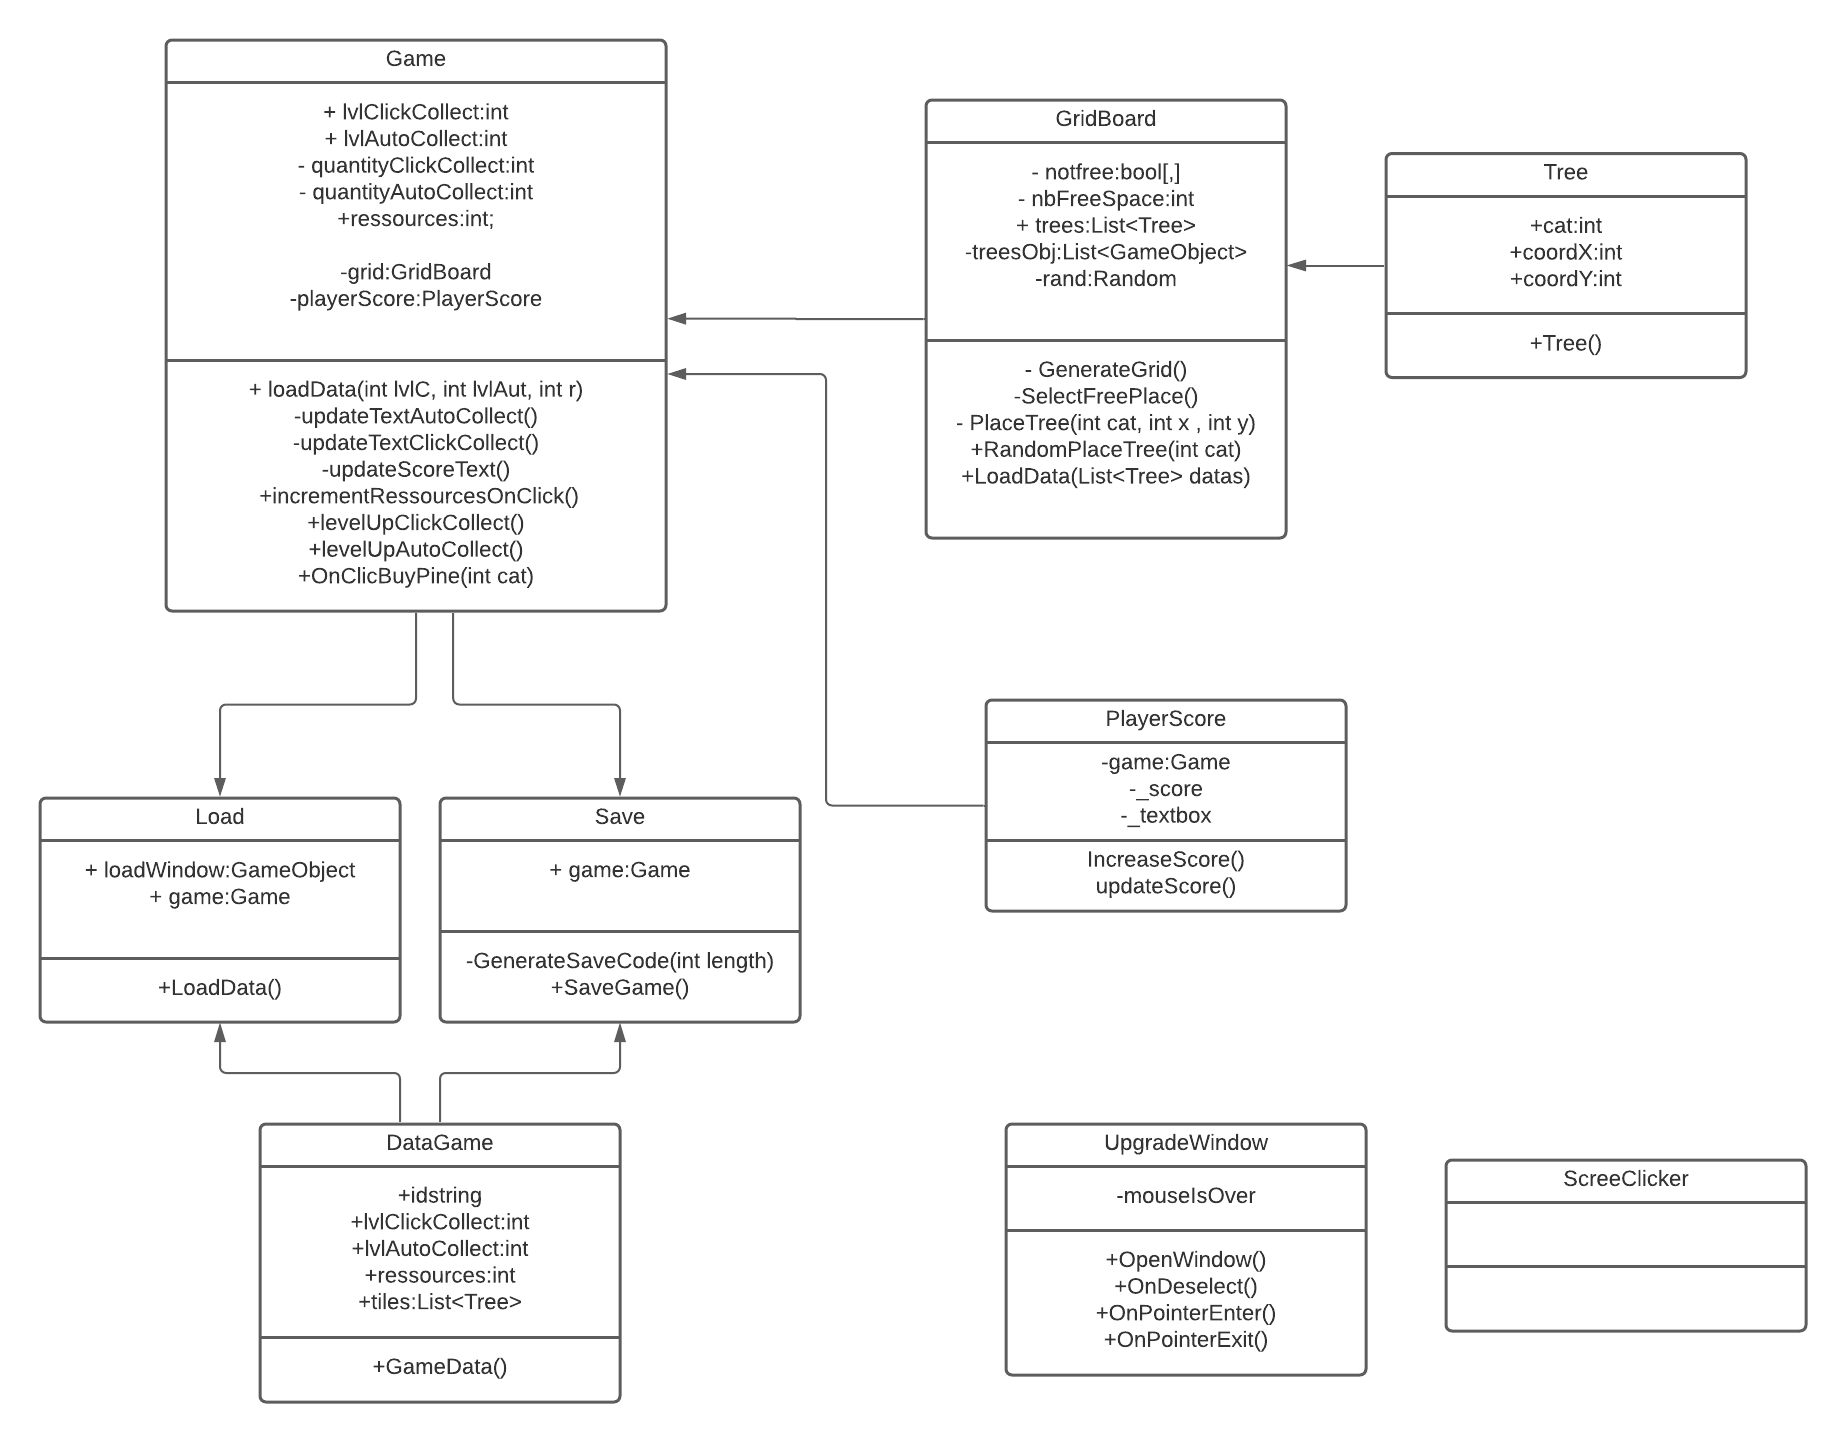
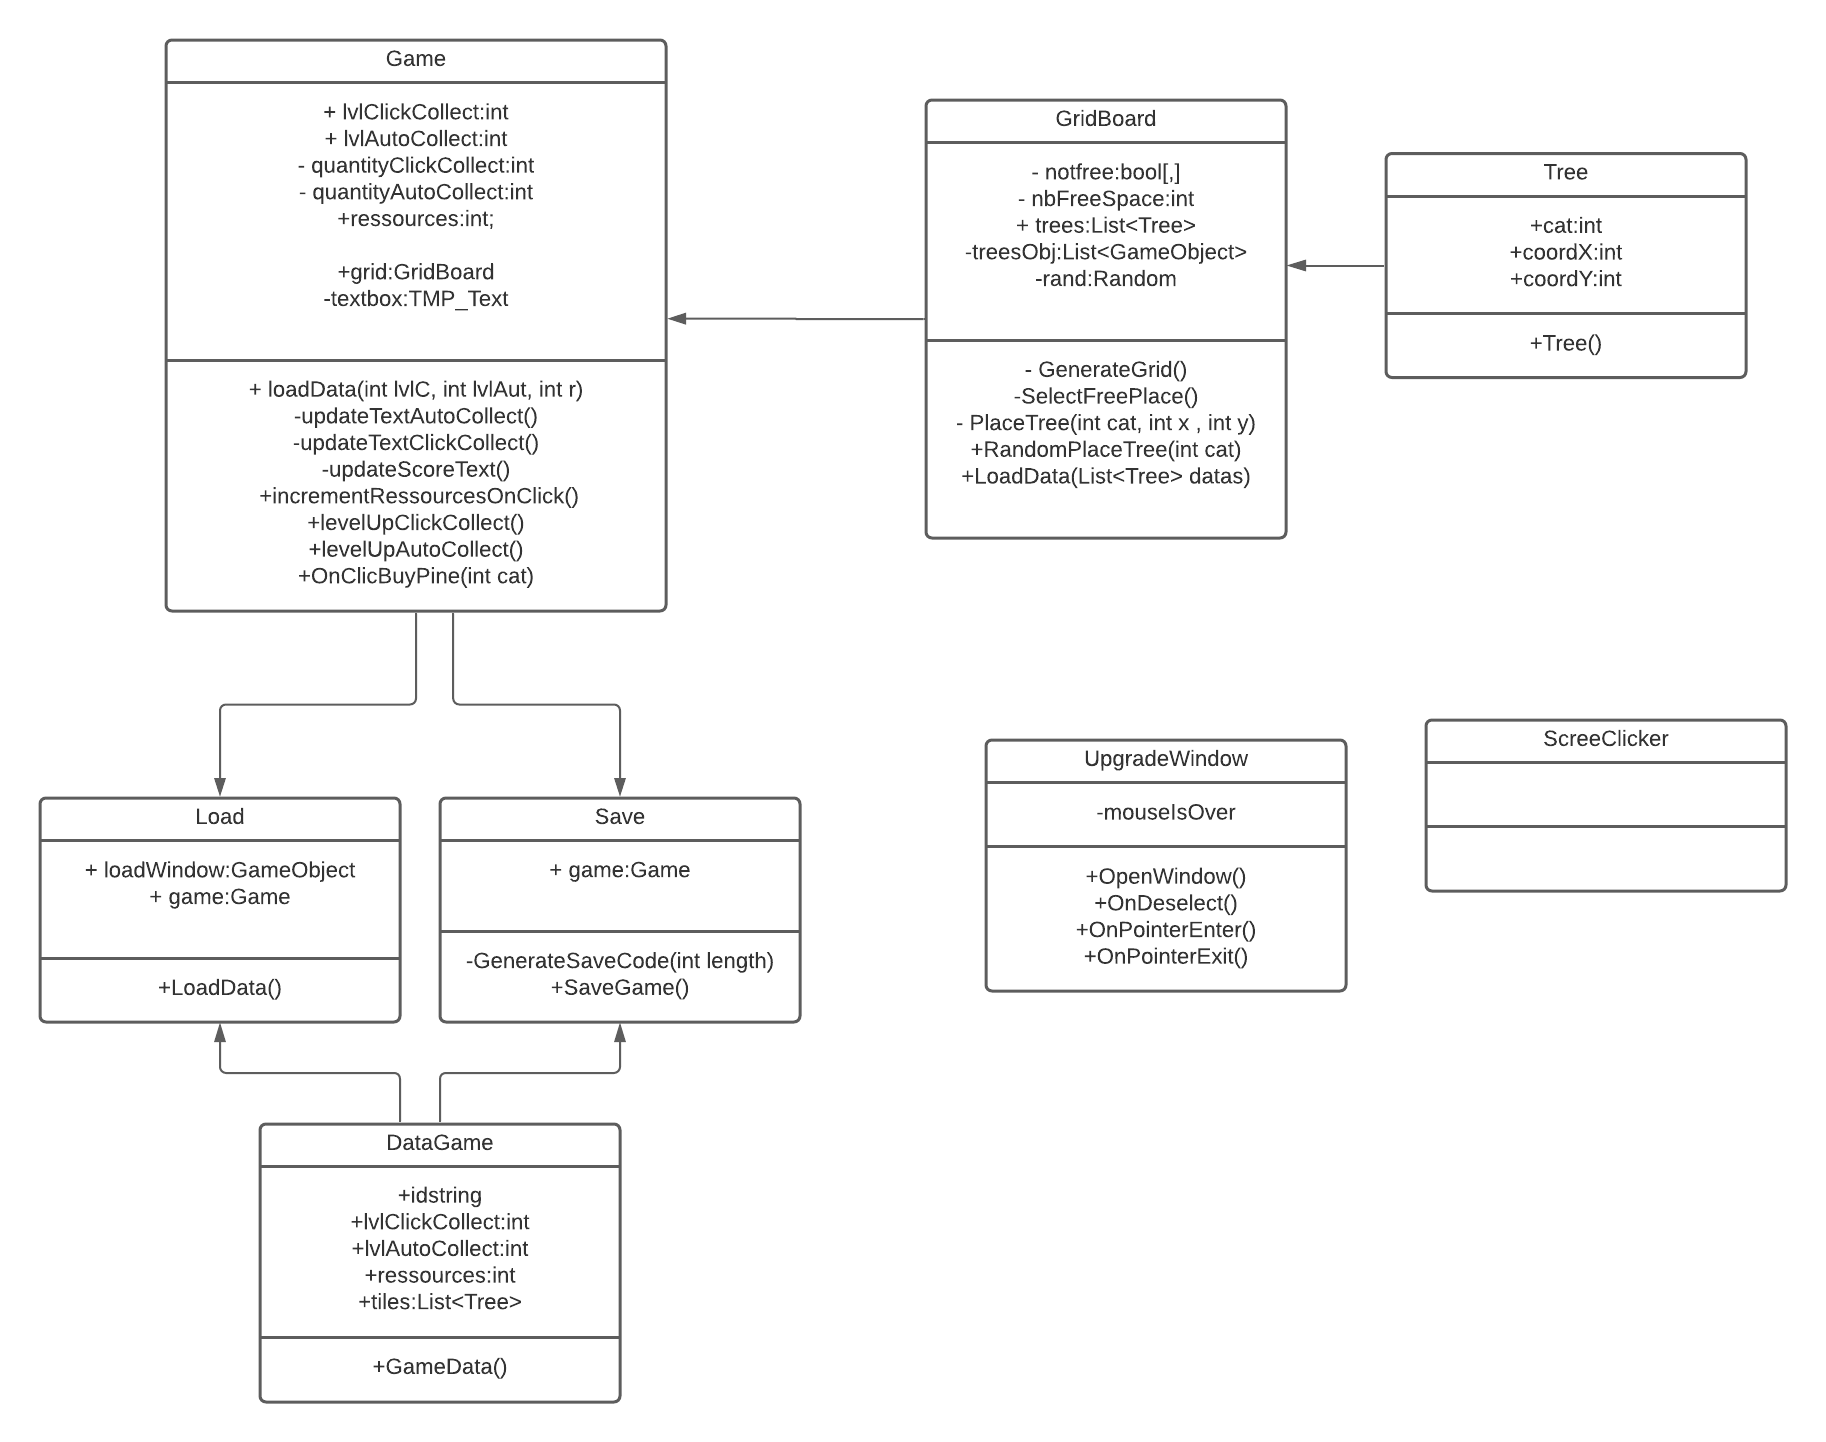
delivery-v1.0

diff --git a/Unity/2022-01-31-OnlineClicker/Assets/Scripts/Game.cs b/Unity/2022-01-31-OnlineClicker/Assets/Scripts/Game.cs
@@ -2,6 +2,7 @@
 using System.Collections;
 using System.Collections.Generic;
 using UnityEngine;
+using TMPro;
 
 public class Game : MonoBehaviour
 {
@@ -32,7 +33,13 @@ public class Game : MonoBehaviour
 
     //Tree
     public GridBoard grid;
-    public clicker.PlayerScore playerScore;
+    [SerializeField] 
+    private TMP_Text textbox;
+
+    public void updateScore()
+    {
+        textbox.SetText(ressources.ToString());
+    }
 
     //Update the data during loading
     public void loadData(int lvlC, int lvlAut, int r)
@@ -45,7 +52,7 @@ public class Game : MonoBehaviour
 
         updateTextAutoCollect();
         updateTextClickCollect();
-        playerScore.updateScore();
+        updateScore();
     }
 
     private void updateTextAutoCollect()
@@ -62,6 +69,7 @@ public class Game : MonoBehaviour
     public void incrementRessourcesOnClick()
     {
         ressources += quantityClickCollect;
+        updateScore();
     }
     public void levelUpClickCollect()
     {
@@ -71,7 +79,7 @@ public class Game : MonoBehaviour
             lvlClickCollect += 1;
             quantityClickCollect = quantityClickCollect * 2;
             updateTextClickCollect();
-            playerScore.updateScore();
+            updateScore();
 
         }
     }
@@ -83,7 +91,7 @@ public class Game : MonoBehaviour
             lvlAutoCollect += 1;
             quantityAutoCollect = (int)Math.Floor(Math.Pow(2, lvlAutoCollect - 1));
             updateTextAutoCollect();
-            playerScore.updateScore();
+            updateScore();
         }
     }
     public void OnClicBuyPine(int cat)
@@ -93,7 +101,7 @@ public class Game : MonoBehaviour
             if (grid.RandomPlaceTree(cat))
             {
                 ressources -= COST;
-                playerScore.updateScore();
+                updateScore();
             }
             
         }
@@ -106,7 +114,7 @@ public class Game : MonoBehaviour
         quantityAutoCollect = (int)Math.Floor(Math.Pow(2, lvlAutoCollect - 1));
         updateTextAutoCollect();
         updateTextClickCollect();
-        playerScore.updateScore();
+        updateScore();
     }
     void Update()
     {
@@ -117,7 +125,7 @@ public class Game : MonoBehaviour
         {
             Timer = 0f;
             ressources += quantityAutoCollect;
-            playerScore.updateScore();
+            updateScore();
         }
 
     }
